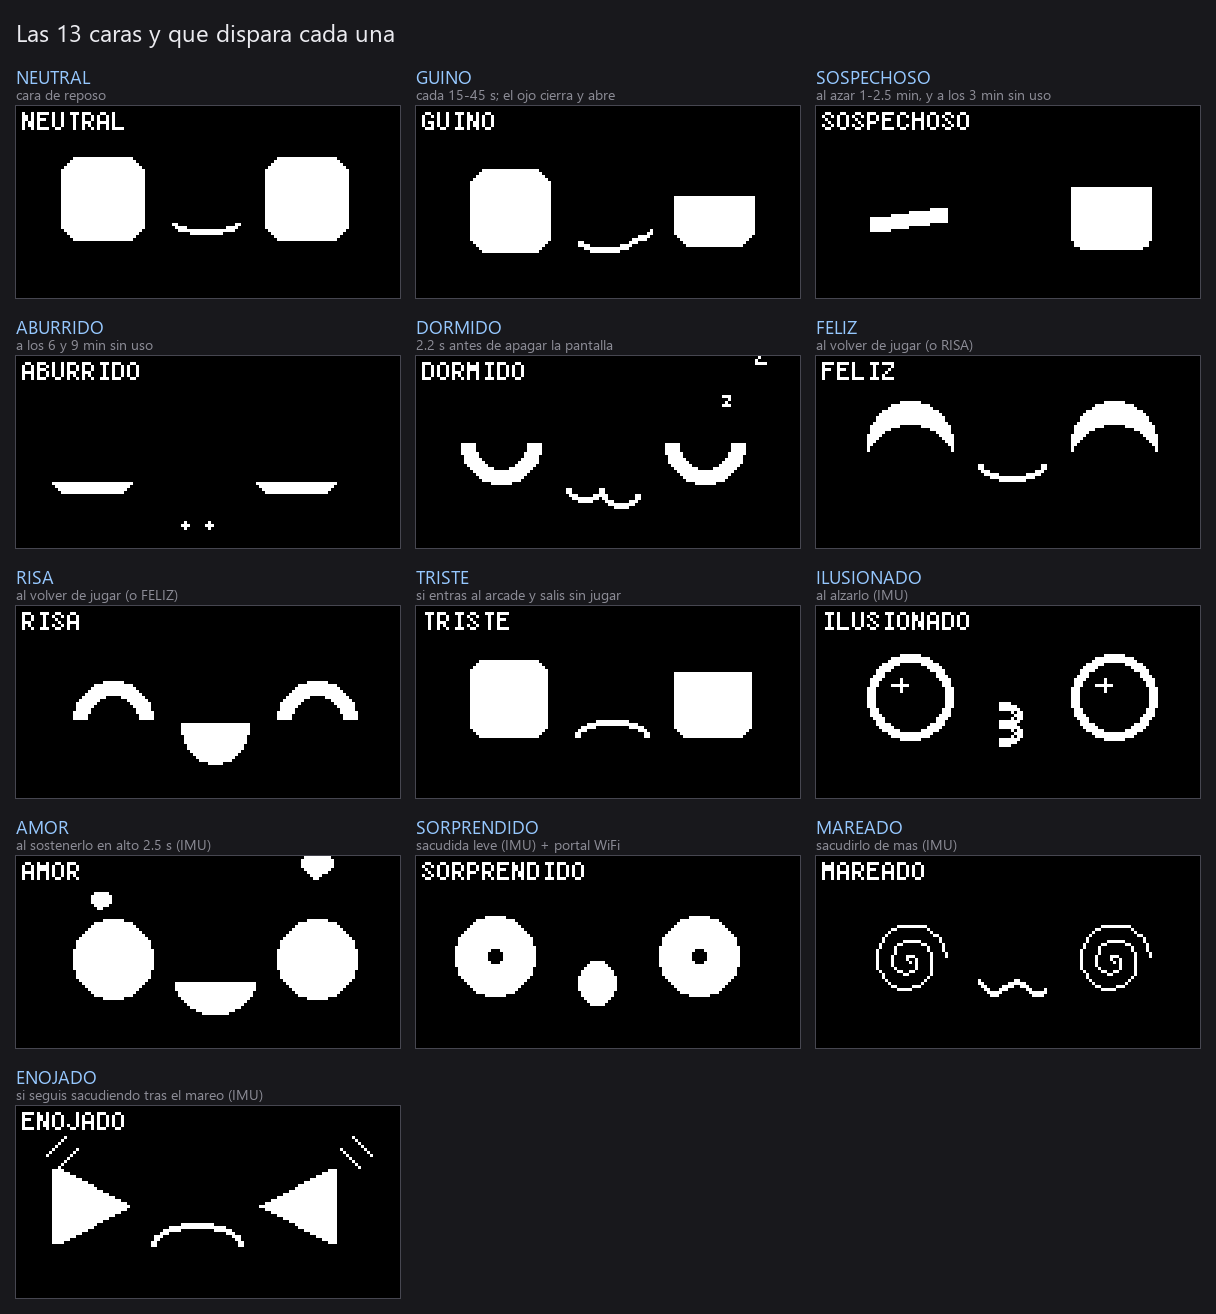
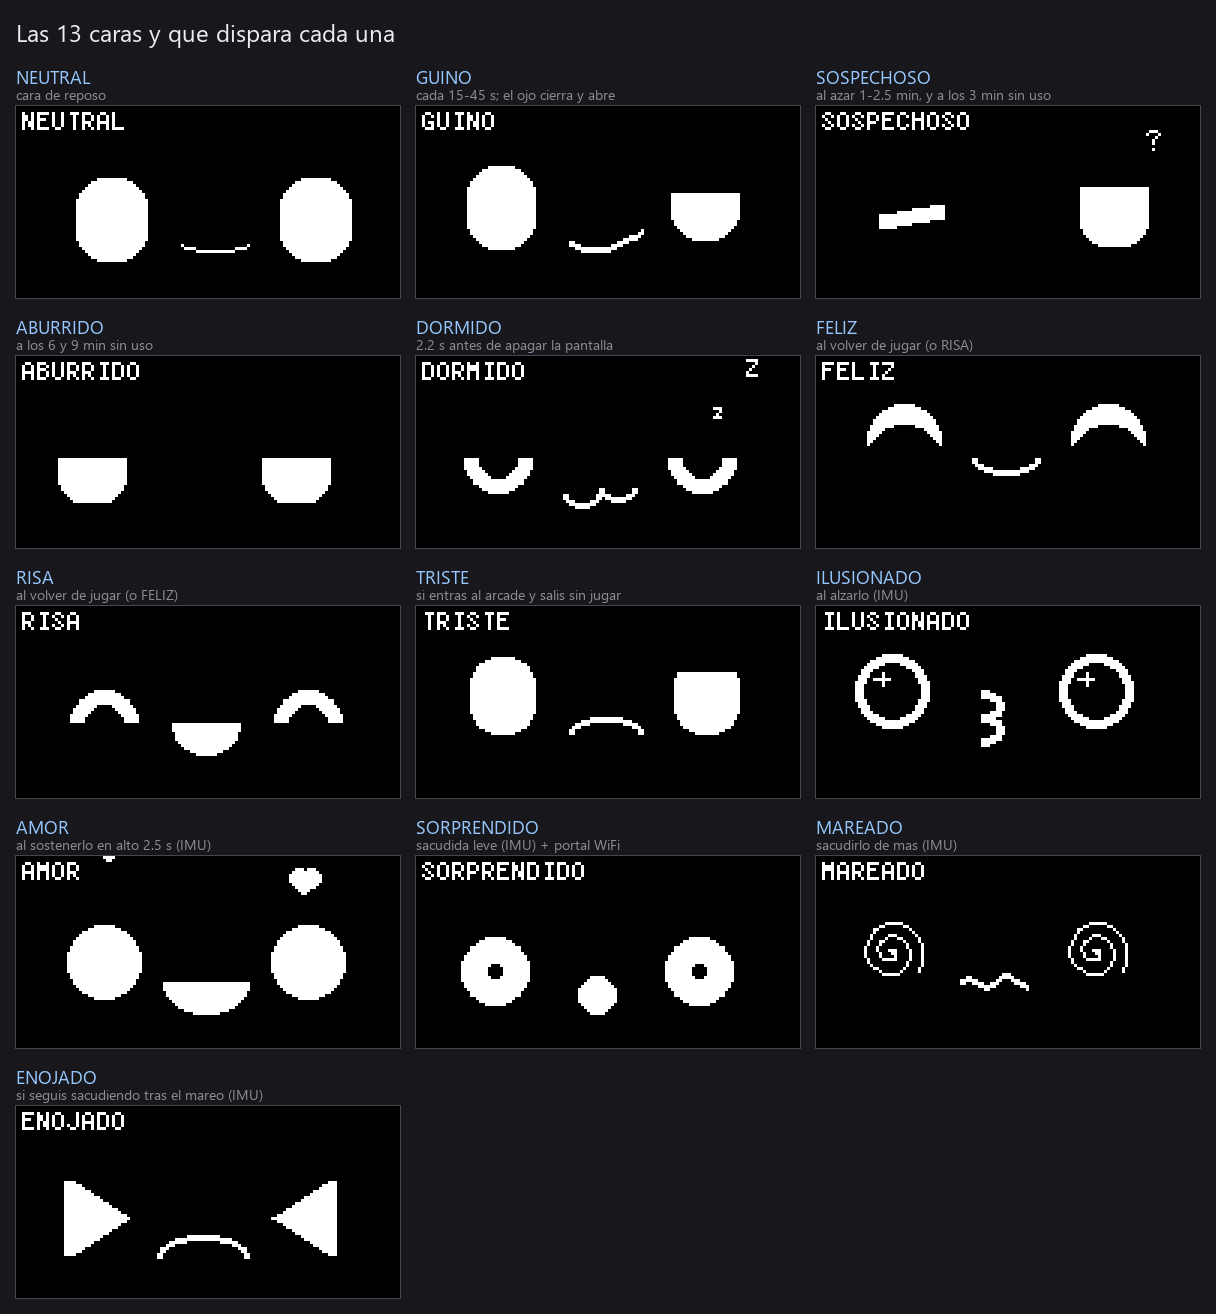
Narrow the eyes and round their corners
Two more global knobs alongside the height stretch. The corner radius is
clamped to half the shorter side inside exprToTargets: past that the radius
does not fit the rectangle and u8g2 draws garbage. Clamping there means the
constant can be picked for how it looks without having to reason about
which expression has the smallest eye.

Claude-Session: https://claude.ai/code/session_01Wq7hR3157ieZpV6BhXobmc

diff --git a/src/face.cpp b/src/face.cpp
@@ -265,11 +265,23 @@ static void exprToTargets(Expression e,
     if (idx >= 13) idx = 0;
     const ExprDef &d = EXPR_TABLE[idx];
 
+    // Tamaño y redondeo, con los ajustes globales aplicados una sola vez
+    // para los dos ojos. El radio se topea a la mitad del lado más corto:
+    // más que eso no entra en el rectángulo y el dibujo se deforma.
+    float w = d.w + FACE_OJO_ANCHO_EXTRA;
+    float h = d.h + FACE_OJO_ALTO_EXTRA;
+    if (w < 4.0f) w = 4.0f;
+    if (h < 2.0f) h = 2.0f;
+    float r = d.r + FACE_OJO_RADIO_EXTRA;
+    float rMax = ((w < h) ? w : h) * 0.5f;
+    if (r > rMax) r = rMax;
+    if (r < 0.0f) r = 0.0f;
+
     lt.cx       = EYE_LEFT_CX;
     lt.cy       = EYE_CY + EXPR_OJO_DY[idx].izq;
-    lt.w        = d.w + FACE_OJO_ANCHO_EXTRA;
-    lt.h        = d.h + FACE_OJO_ALTO_EXTRA;
-    lt.r        = d.r;
+    lt.w        = w;
+    lt.h        = h;
+    lt.r        = r;
     lt.pTop     = d.lPTop;
     lt.pBot     = d.lPBot;
     lt.slopeTop = d.lSlopeTop;
@@ -279,9 +291,9 @@ static void exprToTargets(Expression e,
 
     rt.cx       = EYE_RIGHT_CX;
     rt.cy       = EYE_CY + EXPR_OJO_DY[idx].der;
-    rt.w        = d.w + FACE_OJO_ANCHO_EXTRA;
-    rt.h        = d.h + FACE_OJO_ALTO_EXTRA;
-    rt.r        = d.r;
+    rt.w        = w;
+    rt.h        = h;
+    rt.r        = r;
     rt.pTop     = d.rPTop;
     rt.pBot     = d.rPBot;
     rt.slopeTop = d.rSlopeTop;

diff --git a/include/config.h b/include/config.h
@@ -253,7 +253,12 @@ static const float    FACE_OJO_CY     = 35.0f;
 // y esto define cuán grandes son en general, sin tener que retocar 13
 // entradas cada vez que se quiere probar otra proporción.
 static const float    FACE_OJO_ALTO_EXTRA  = 6.0f;
-static const float    FACE_OJO_ANCHO_EXTRA = 0.0f;
+static const float    FACE_OJO_ANCHO_EXTRA = -4.0f;
+// Redondeo extra de las esquinas. Se topea a la mitad del lado más corto:
+// por encima de eso el radio no entra en el rectángulo y u8g2 dibuja
+// cualquier cosa. El tope lo aplica exprToTargets, no hace falta cuidarlo
+// al elegir el número.
+static const float    FACE_OJO_RADIO_EXTRA = 4.0f;
 
 // ----- Caras ligadas a eventos --------------------------------
 // Cuánto se muestra la cara DORMIDO antes de apagar la pantalla. Es un
